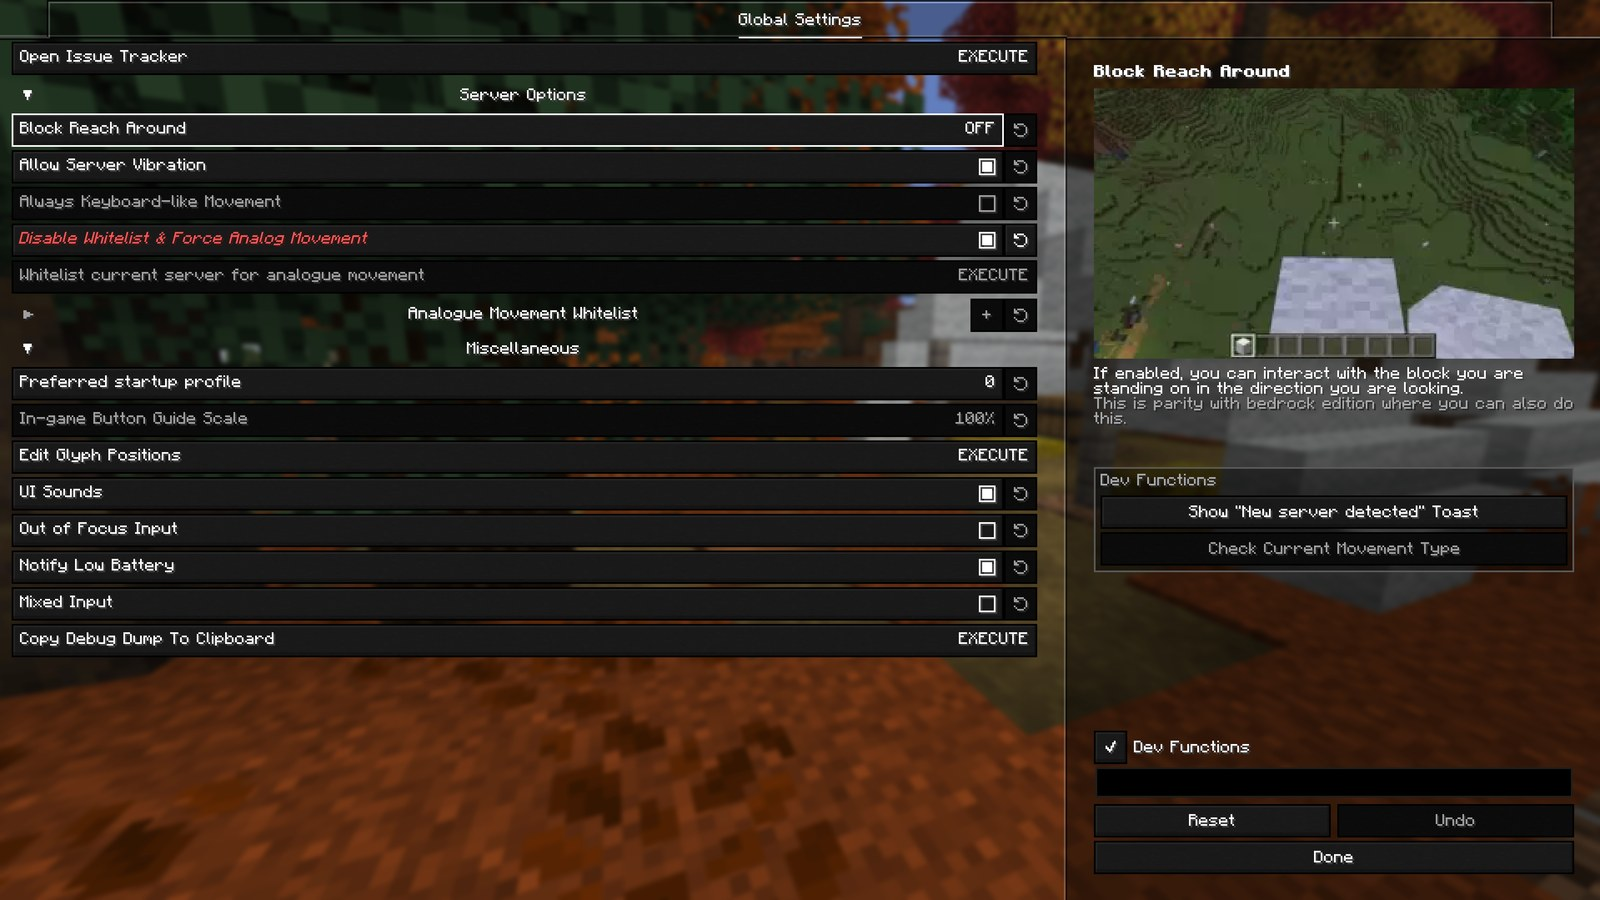
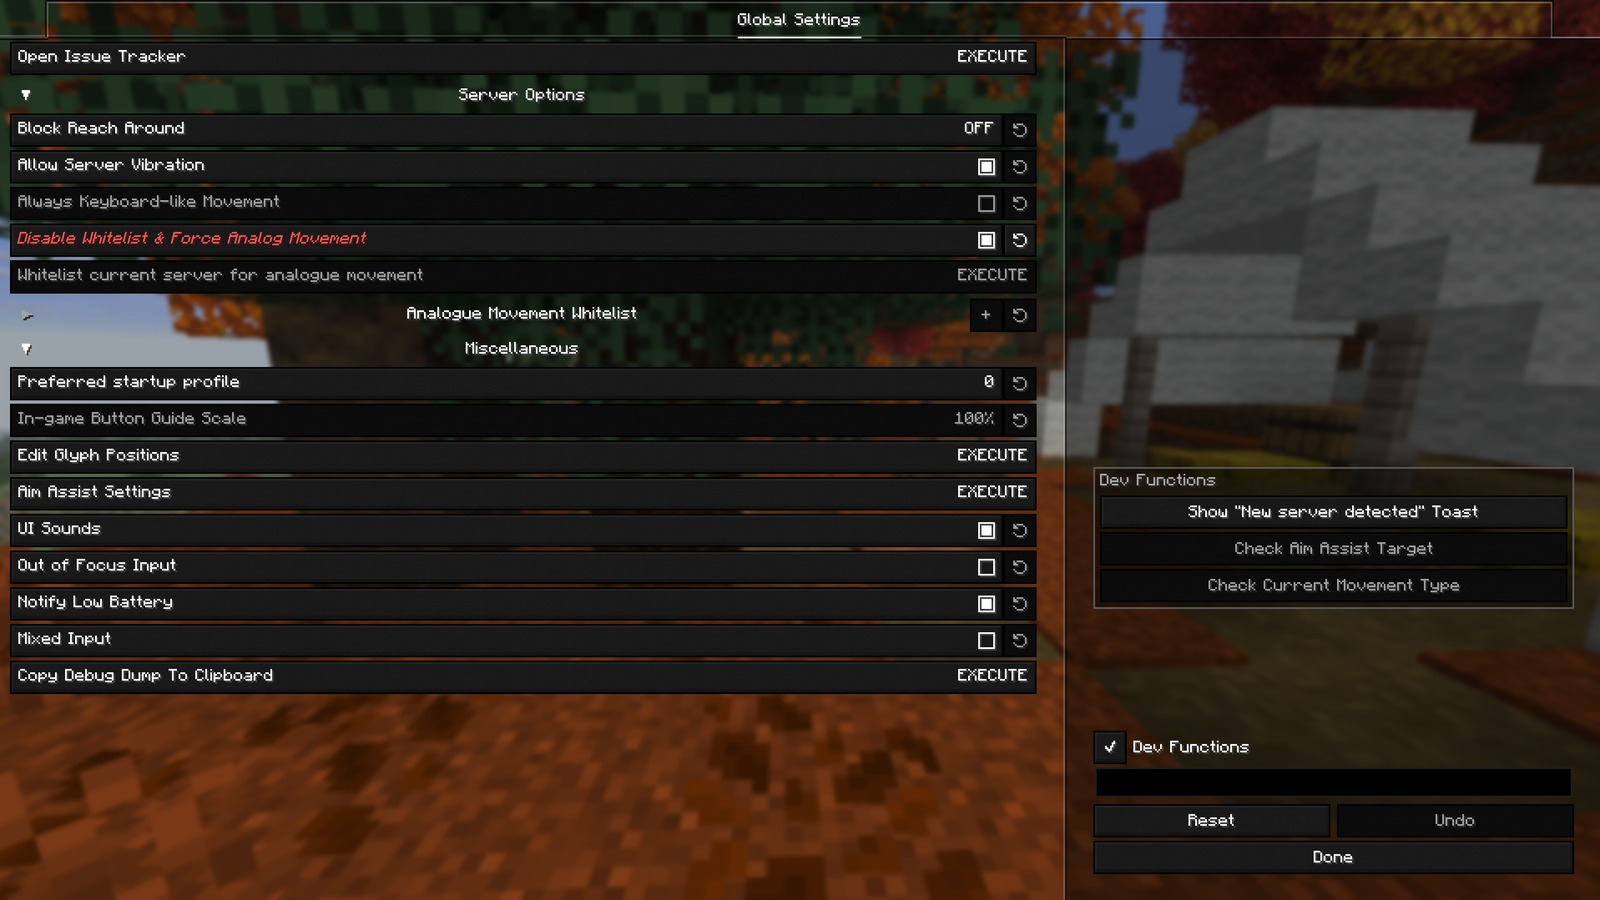
Document aim assist in the README
Claude-Session: https://claude.ai/code/session_01JAwXM5Svp4a2yW5mUgwAPp

diff --git a/README.md b/README.md
@@ -12,12 +12,13 @@
 
 ## What's different in this fork
 
-This build adds three options and a **Dev Functions** panel to Controlify's **Global Settings** screen, and fixes two annoyances. Everything else behaves exactly like the official mod.
+This build adds four things to Controlify's **Global Settings** screen and fixes two annoyances. Everything else behaves exactly like the official mod.
 
 **New options**
 
 - [Disable Whitelist & Force Analog Movement](#disable-whitelist--force-analog-movement) — analog movement on every server
 - [Edit Glyph Positions](#edit-glyph-positions) — move the in-game button guides out of the way
+- [Aim assist](#aim-assist) — controller aim assist for melee and bows, off by default
 - [Dev Functions panel](#dev-functions-panel) — a small panel for testing things on demand
 
 **Fixes**
@@ -72,9 +73,42 @@ Requires a connected controller.
   <em>Both guide columns nudged clear of the map and the beacon powers.</em>
 </p>
 
+### Aim assist
+
+Opens a screen of aim assist settings. With it on, the look stick slows down as your crosshair comes onto a mob and pulls gently towards its upper chest, which is where most controller misses come from — overshooting rather than being wildly off. It keeps tracking while you strafe past something, not only while you're turning.
+
+It never widens a hitbox and never changes where an attack lands. Your own aim still decides the outcome.
+
+<p align="center">
+  <img alt="The Aim Assist Settings option" src="assets/fork/row-aim-assist.png" width="820">
+</p>
+
+**Aim Assist** — off, **Singleplayer & LAN**, or **Everywhere**.
+
+> [!WARNING]
+> Only use **Everywhere** on servers you know allow aim assist. Some server anti-cheats may flag or ban you for it. **Singleplayer & LAN** is the default and never touches a multiplayer server.
+
+**Target** — hostile mobs, all mobs, or a custom list. Hostile mobs also covers a normally peaceful mob that's currently angry, like a provoked wolf pack. Players are never targeted.
+
+**Melee** and **Bow** are tuned separately, each with three settings:
+
+- **Strength** — how hard the assist slows and pulls. Low, Medium, High.
+- **Crosshair Cone** — how far off a mob can be before the assist takes an interest.
+- **Distance** — how far away a mob can be and still be targeted.
+
+Bows and crossbows use the melee settings until you actually start drawing, and switch to the bow settings from then on. A crossbow being reloaded counts as melee; a loaded one ready to fire counts as bow.
+
+The settings are global rather than per-controller.
+
+<p align="center">
+  <img alt="The Aim Assist settings screen" src="assets/fork/aim-assist-options.png" width="820">
+  <br>
+  <em>Melee and bow are tuned independently.</em>
+</p>
+
 ### Dev Functions panel
 
-A dev panel in Global Settings for faster testing and bug checking, so behaviour can be triggered on demand instead of waiting for it in game. Right now it fires the "New server detected" toast and reports the active movement type. The checkbox below hides the panel, and it sizes itself to whatever buttons it holds.
+A dev panel in Global Settings for faster testing and bug checking, so behaviour can be triggered on demand instead of waiting for it in game. Right now it fires the "New server detected" toast, reports what aim assist is doing at that moment, and reports the active movement type. The checkbox below hides the panel.
 
 <p align="center">
   <img alt="The Dev Functions panel" src="assets/fork/dev-functions-panel.png" width="420">
